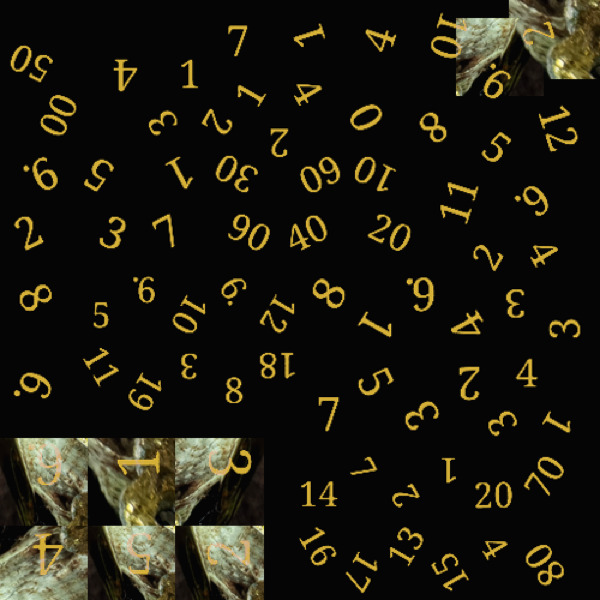
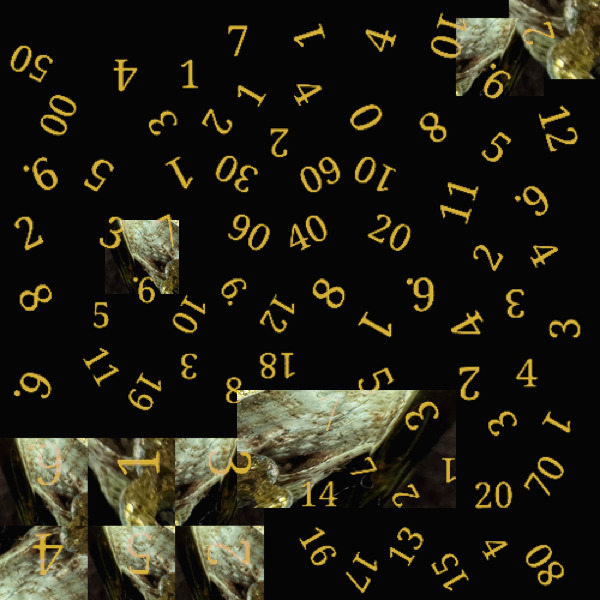
fix: composite skull texture onto genuine d20 UV regions in Mis Dados theme
The original two "d20" skull placements were positioned by eyeballing
the shared UV atlas and actually landed inside d12's territory, not
d20's — confirmed by rasterizing the mesh's actual per-die UV islands
into a color-coded reference image. Every d20 face rendered plain
black as a result.

Replaced with two regions verified against the real d20 UV mask, and
regenerated the skull crop from the source photo with the auto-orient
step this fix had initially skipped — omitting it silently shifts
which part of the photo lands at a given crop coordinate, which is
why the first attempt at this fix pasted wood-grain background and a
numeral instead of bone texture.

Changed region(s): [[0.39, 0.63, 0.72, 0.87], [0.15, 0.36, 0.3, 0.51], [0.72, 0.69, 0.78, 0.81]]

diff --git a/public/sw.js b/public/sw.js
@@ -1,4 +1,4 @@
-const STATIC_CACHE = "mavok-1ea11c6";
+const STATIC_CACHE = "mavok-2fbcc25";
 
 self.addEventListener("install", (event) => {
   event.waitUntil(
